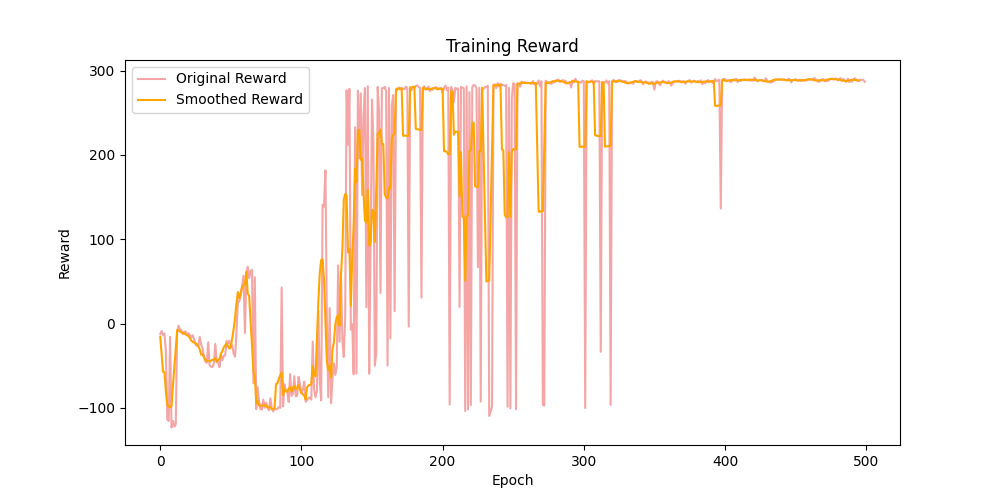
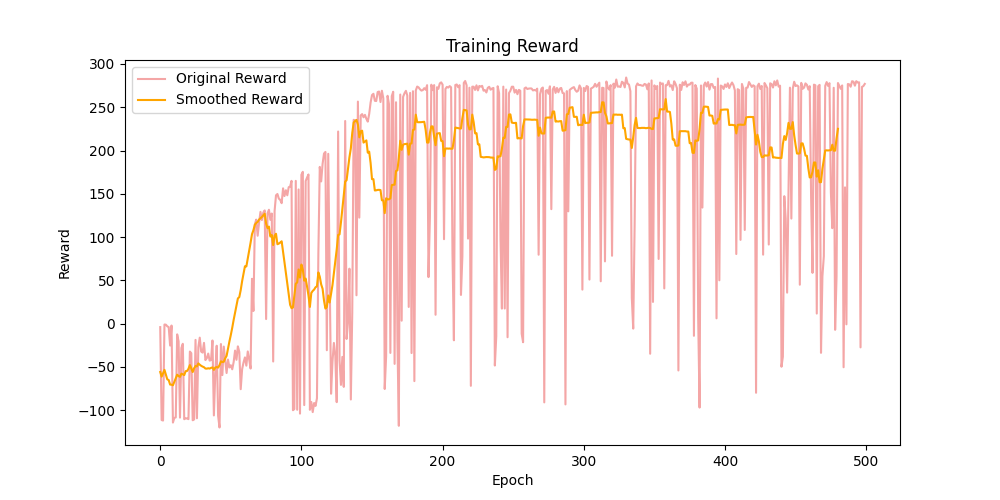
feat: finish continuous action space

diff --git a/PPO.py b/PPO.py
@@ -86,8 +86,9 @@ class ActorCritic(nn.Module):
         if self.continuous_action_space:
 
             action_mean = self.actor(state)
-            action_var = self.action_var.expand_as(action_mean)
-            cov_mat = torch.diag_embed(action_var)
+            # action_var = self.action_var.expand_as(action_mean)
+            # cov_mat = torch.diag_embed(action_var)
+            cov_mat = torch.diag(self.action_var).unsqueeze(dim=0)
             dist = MultivariateNormal(action_mean, cov_mat)
 
             if self.action_dim == 1:
@@ -170,6 +171,7 @@ class PPO:
             self.buffer.log_probs.append(action_log_probs)
             self.buffer.state_values.append(state_value)
 
+            # turn the (1, action_dim) action tensor to (action_dim, )
             return action.detach().numpy().flatten()
         else:
 

diff --git a/plot_log.py b/plot_log.py
@@ -6,14 +6,14 @@ def moving_average(data, window_size):
     return np.convolve(data, np.ones(window_size)/window_size, mode='valid')
 
 reard_list = []
-file = './origin_train.log'
+file = './train.log'
 
 with open(file, 'r') as f:
     for line in f:
         content = line.split('\t')
         reard_list.append(float(content[-1]))
 
-window_size = 5 
+window_size = 20
 
 smoothed_rewards = moving_average(reard_list, window_size)
 

diff --git a/main.py b/main.py
@@ -76,7 +76,7 @@ def train():
     random_seed = 0
 
     logging.basicConfig(level=logging.INFO, 
-                        filename='change_PPO_train.log',
+                        filename='test_train.log',
                         filemode='w')
 
     env = gym.make(env_name)
